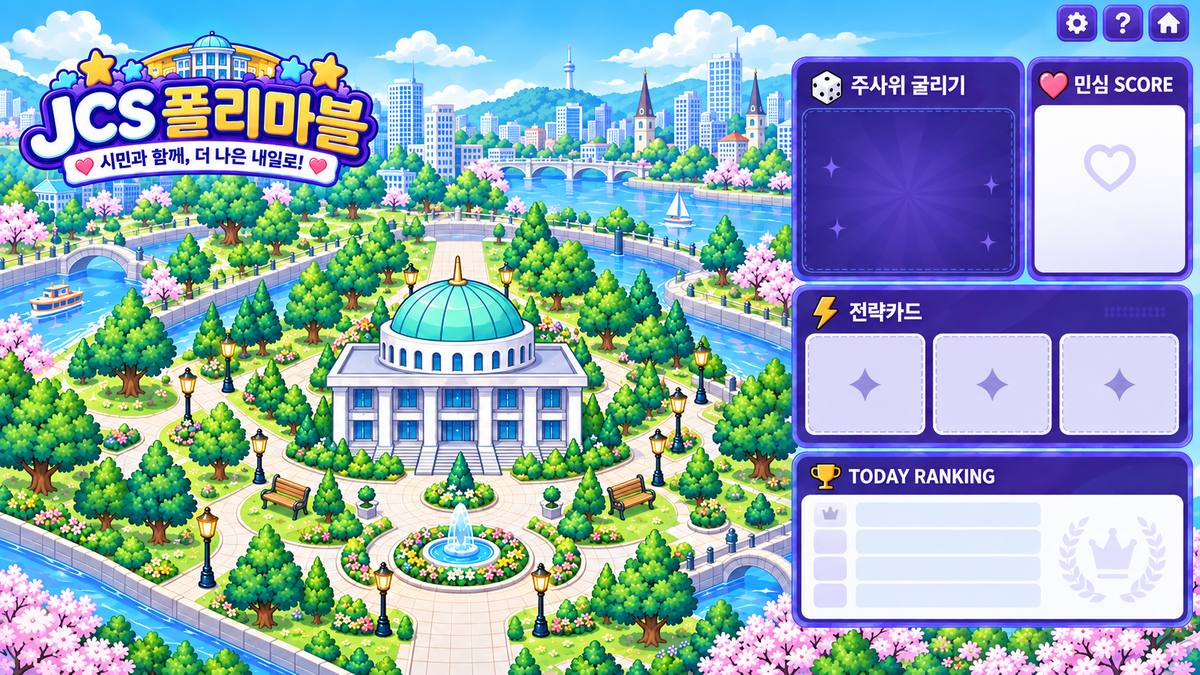
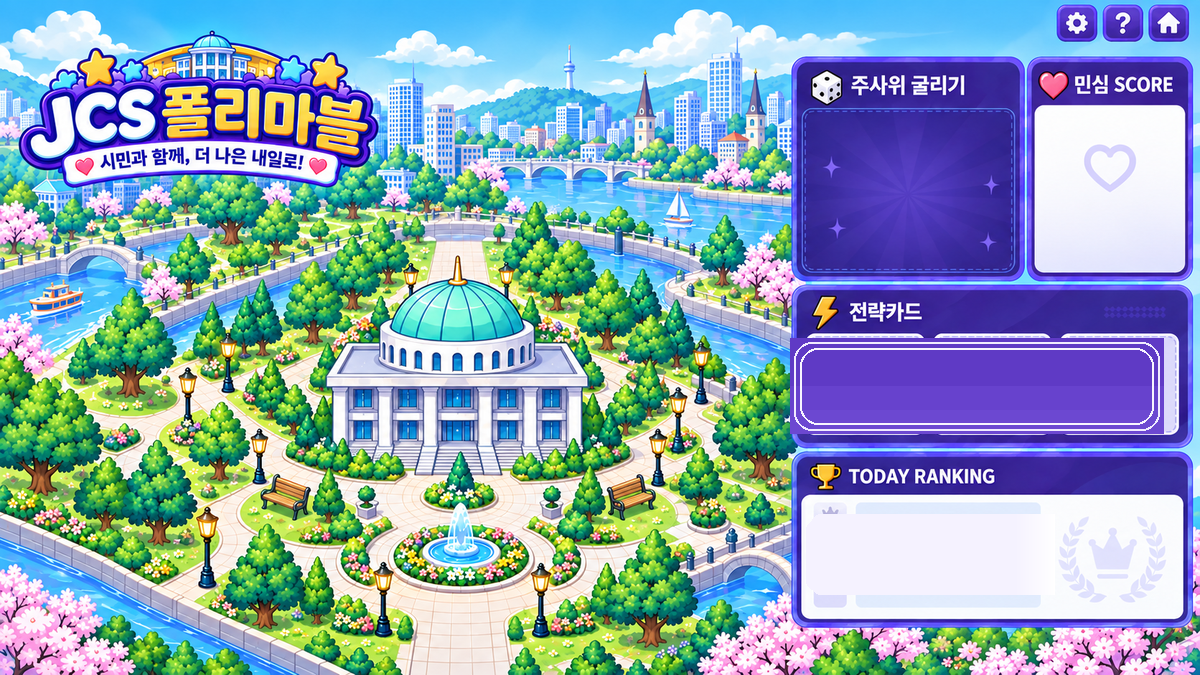
Add files via upload

diff --git a/README_0_0_31_211_KO.md b/README_0_0_31_211_KO.md
@@ -1,9 +1,19 @@
-# JCS 0.0.31.211 — 폴리마블 STEP 1
+# JCS 0.0.31.211 · 폴리마블 백그라운드 정리 패치
 
-사용자가 승인하여 업로드한 `11(1).png`를 실제 정참시 `/polimable` 화면의 STEP 1 자산으로 적용.
+적용 대상: `0.0.31.210` 이후
 
-- 게임 영역 7:3 유지
-- 승인 이미지 적용
-- 24칸 객체 미적용
-- 플레이어 캐릭터 미적용
-- 다음 단계는 사용자 지시 전까지 진행하지 않음
+이번 패치는 **백그라운드 이미지 자체만 정리**합니다.
+
+## 반영 내용
+1. **전략카드 영역**
+   - 뒤에 남아 있던 다이아/슬롯 장식을 백그라운드에서 제거/완화
+   - 실제 동적 전략카드 UI가 올라와도 잔상처럼 겹쳐 보이지 않도록 정리
+
+2. **TODAY RANKING 영역**
+   - 왼쪽/중앙의 기존 줄·칩·박스 느낌 요소 제거
+   - 오른쪽 워터마크(왕관/월계수) 느낌은 유지
+
+## 포함 파일
+- `assets/polimable/polimable-background-1200x675-v31-205.png`
+
+기존 게임 로직, CSS, JS는 건드리지 않았고 **배경 이미지 1장만 교체**하는 패치입니다.
